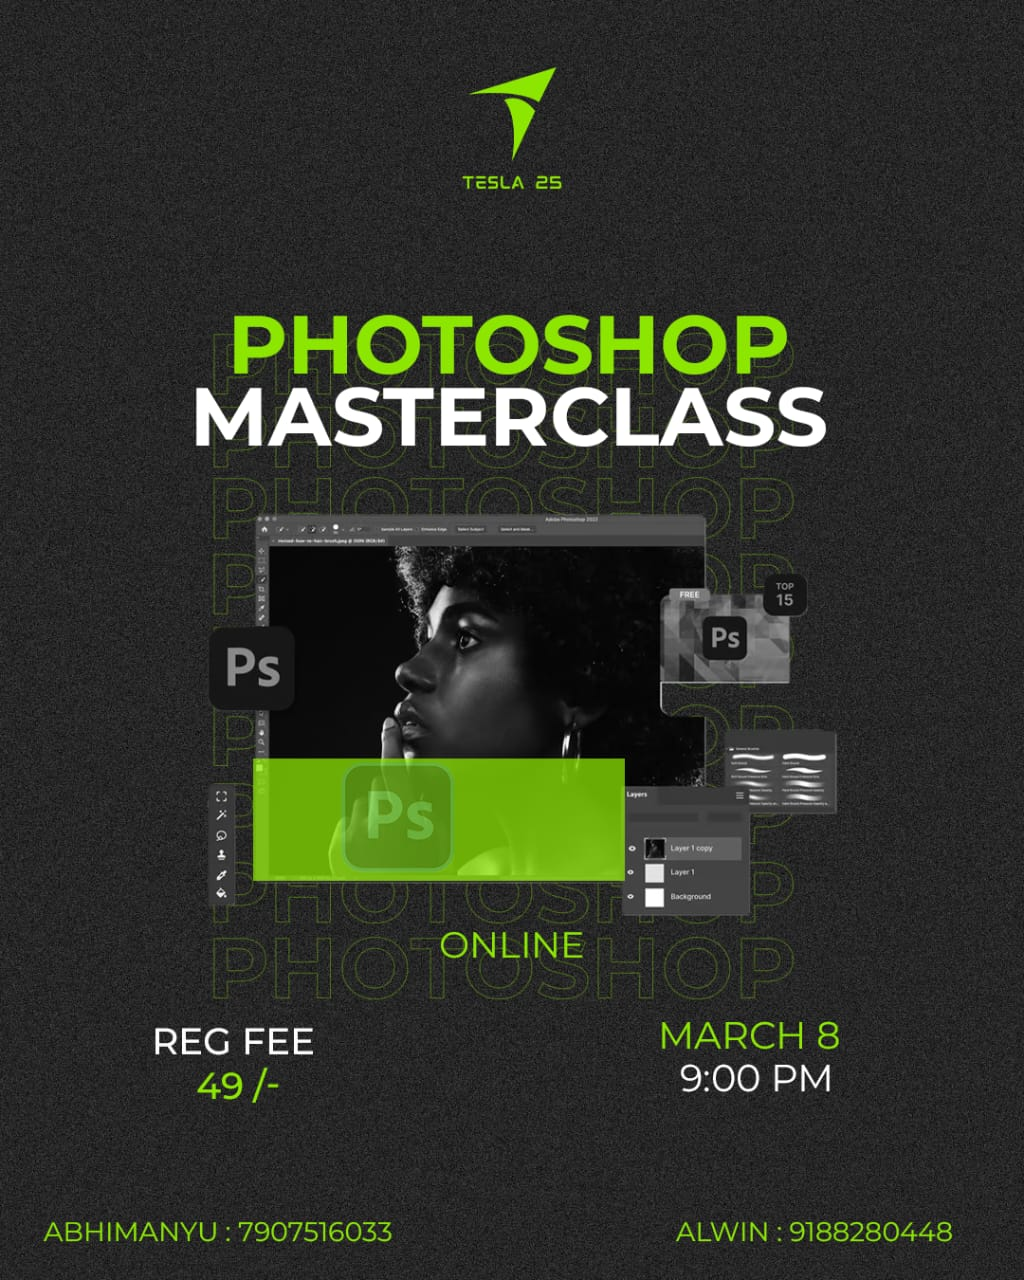
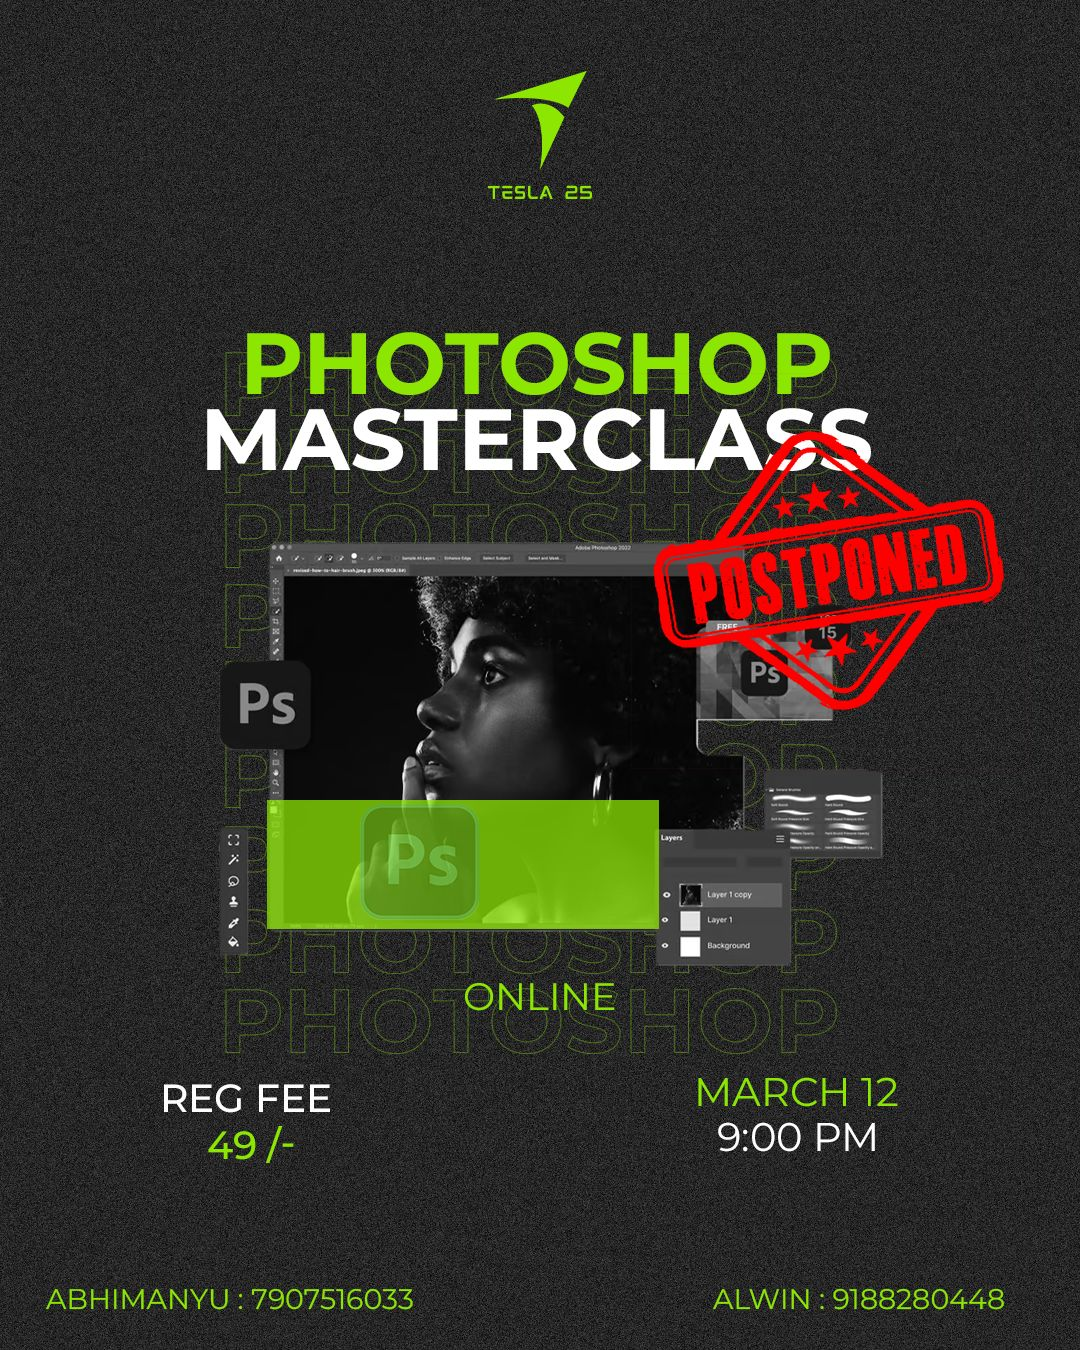
update event date to 21, 22 March 2025 and replace poster image

Changed region(s): [[0.5938, 0.3125, 0.9375, 0.5312], [0.7812, 0.7812, 0.8438, 0.8125]]

diff --git a/js/custom.js b/js/custom.js
@@ -193,11 +193,7 @@ document.addEventListener("DOMContentLoaded", function () {
 /*countdown*/
 document.addEventListener("DOMContentLoaded", function () {
     function updateCountdown() {
-<<<<<<< HEAD
-        const eventDate = new Date("March 14, 2025 00:00:00").getTime();
-=======
         const eventDate = new Date("March 21, 2025 00:00:00").getTime();
->>>>>>> origin/dev
         const now = new Date().getTime();
         const timeLeft = eventDate - now;
 

diff --git a/index.html b/index.html
@@ -137,11 +137,7 @@
                         </div> -->
 
                         <!-- <a class="btn custom-btn smoothscroll" href="#section_2">Let's begin</a> -->
-<<<<<<< HEAD
-                        <div class="hero-date">14, 15 March 2025</div>
-=======
                         <div class="hero-date">21, 22 March 2025</div>
->>>>>>> origin/dev
                     </div>
                     
                 </div>
